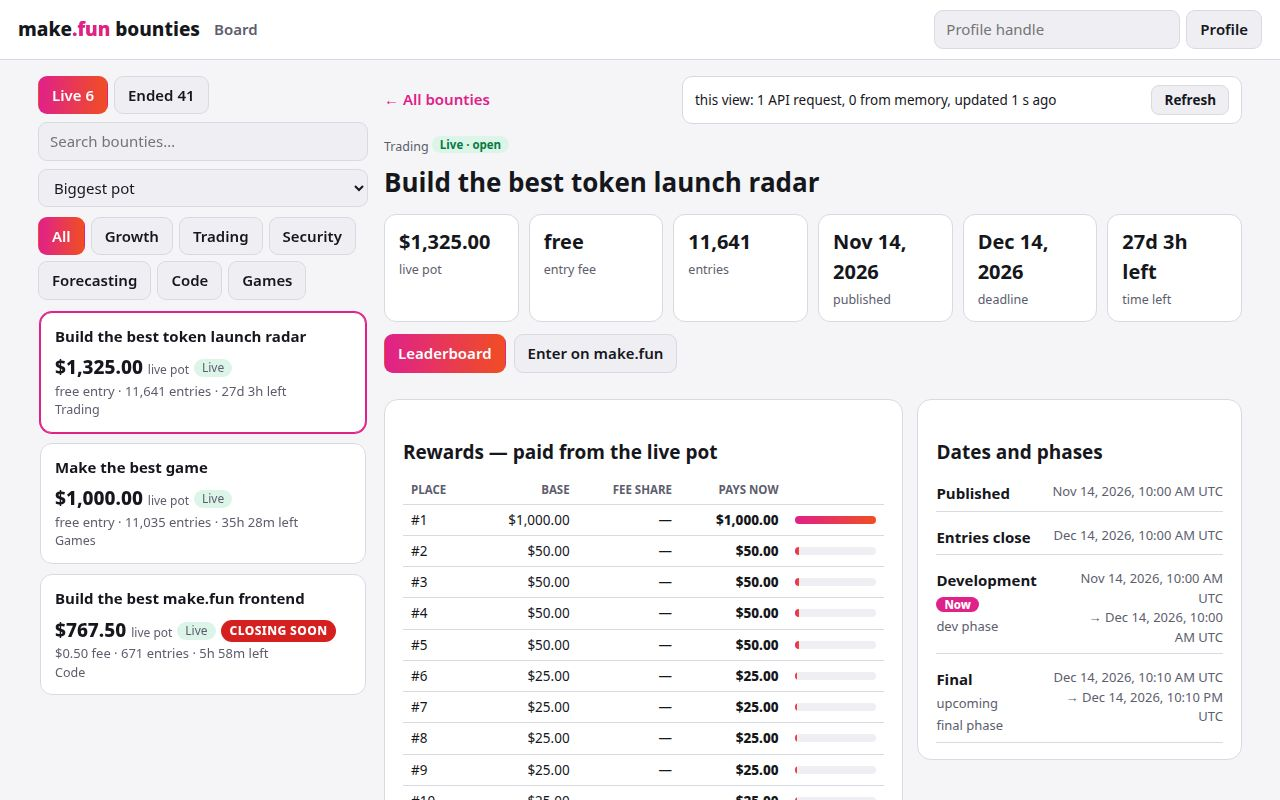
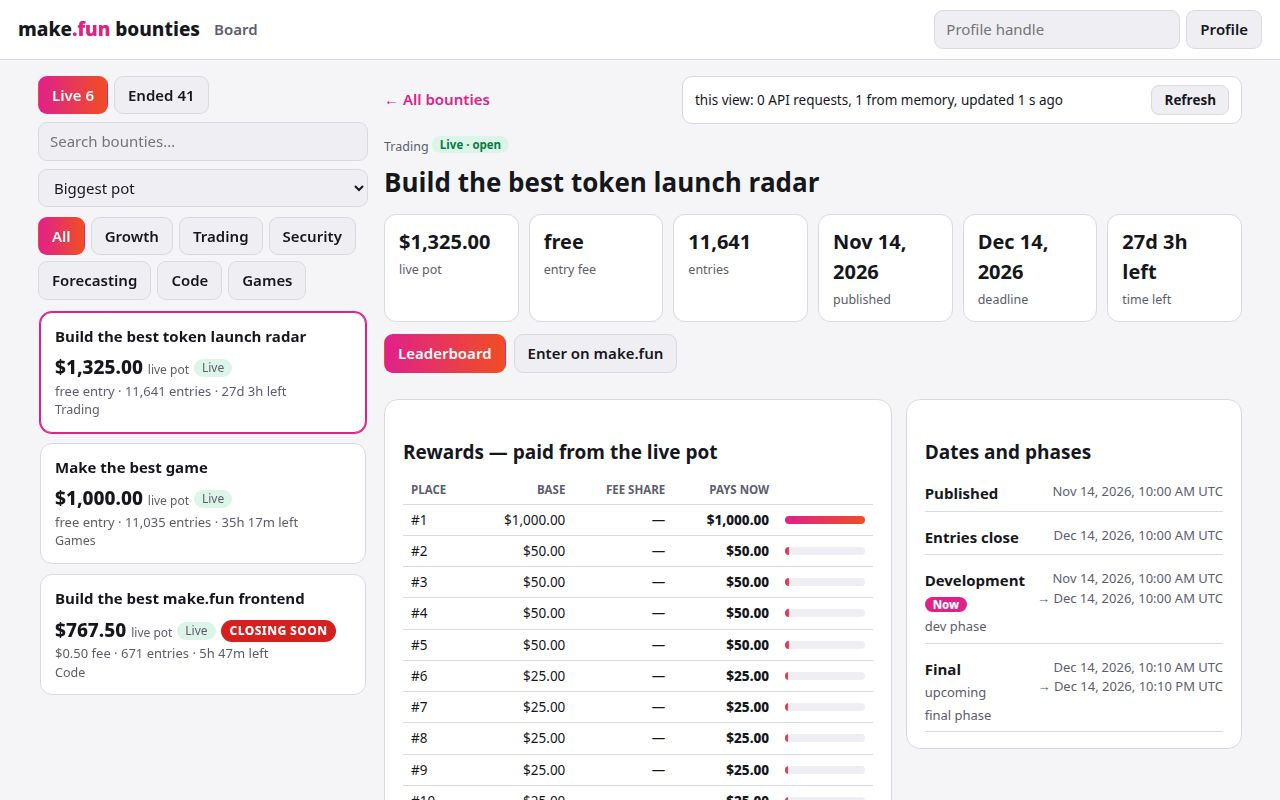
v3 micro: rail/CSS final fixes

diff --git a/app/theme.css b/app/theme.css
@@ -63,7 +63,7 @@ table.rewards td.amt{font-weight:800}
 .group-card,.entrant-card{margin-top:0}
 .phases-panel{display:grid;gap:8px}
 .phase{display:flex;justify-content:space-between;gap:12px;border-bottom:var(--bd);padding:6px 0}
-.phase .when{text-align:right;color:var(--mu);font-size:13px}
+.phase .when{text-align:right;color:var(--mu);font-size:13px;white-space:nowrap}
 .now-marker{background:var(--ac);color:#fff;border-radius:99px;padding:0 8px;font-size:11.5px;font-weight:800}
 .prose{white-space:pre-wrap;color:var(--mu)}
 .stat-grid{display:grid;grid-template-columns:repeat(auto-fit,minmax(120px,1fr));gap:10px;margin:12px 0}
